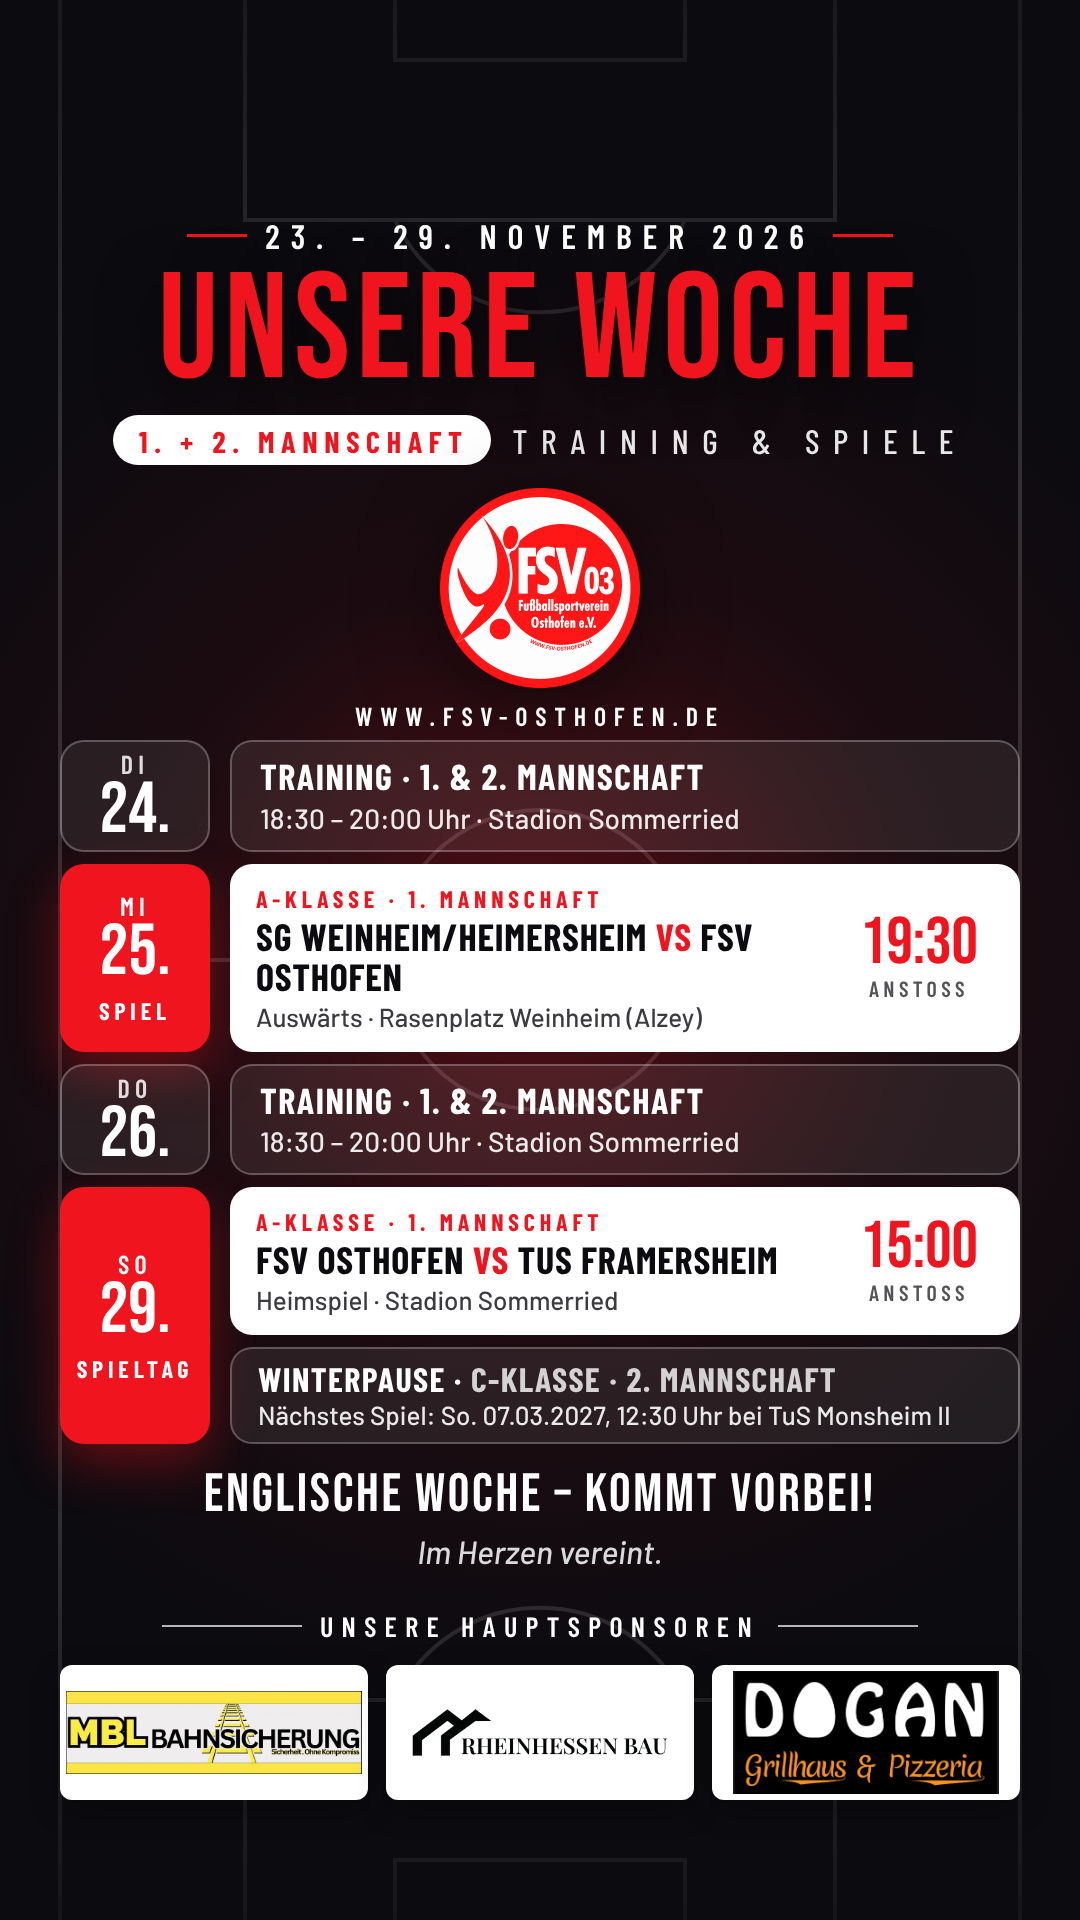
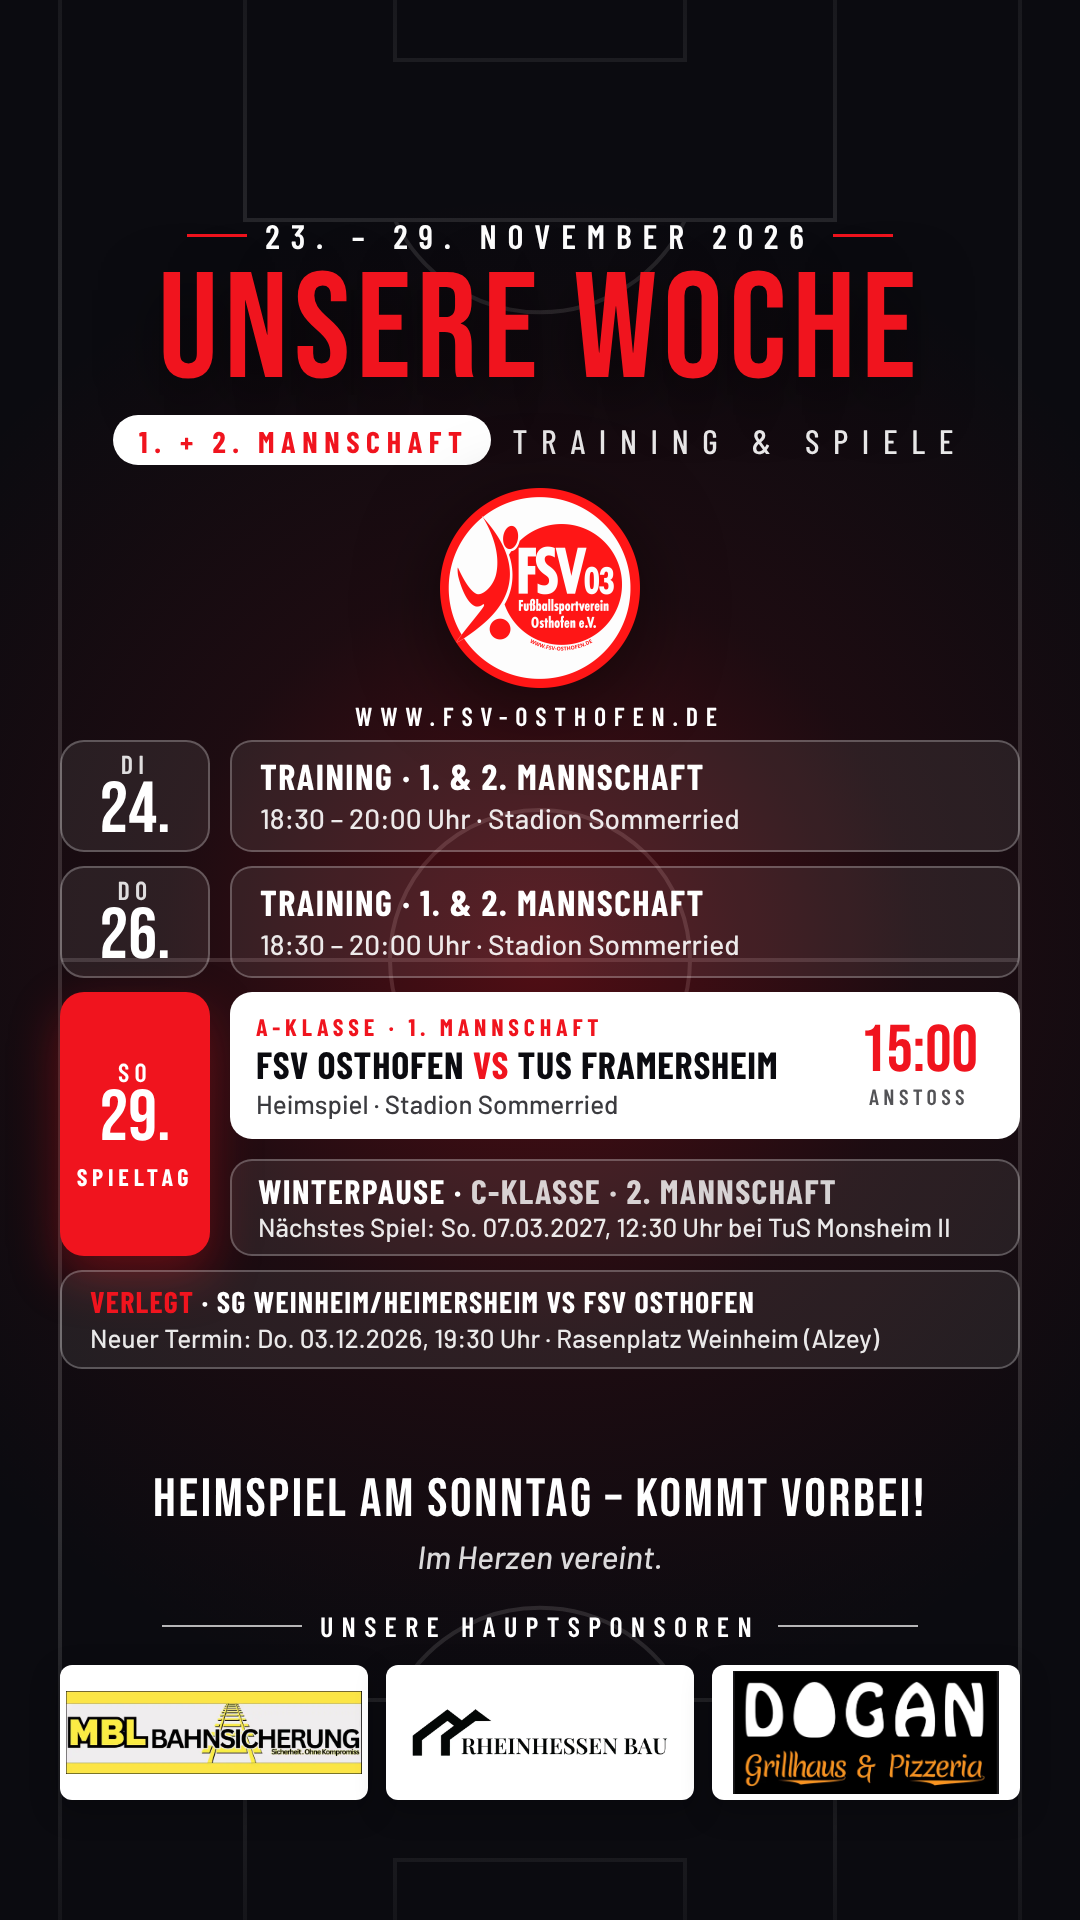
Spiel in Weinheim verlegt auf 03.12.2026 19:30 – Spieltag-Reel + Wochenübersicht aktualisiert
Claude-Session: https://claude.ai/code/session_01X8WeLHWCe29DeJ37NGtFj4

Changed region(s): [[0.0306, 0.4375, 0.9472, 0.8125]]

diff --git a/index.html b/index.html
@@ -34,22 +34,22 @@ h2:first-of-type{border-top:0;padding-top:0;margin-top:0}
 
 <!-- REGELN (Andrej, 02.11.2026): Es wird NUR die aktuelle Woche angezeigt - kein Abschnitt "Vorherige Woche", keine alten Karten. Jeden Montag wird der Abschnitt WOCHE-START..WOCHE-ENDE komplett ersetzt (PNGs in img/ bleiben liegen). Innerhalb der Woche kommen Karten DAZU, nichts wird entfernt. Reihenfolge im Grid: Aufstellungen (Sonntag, ganz oben; 1. vor 2. Mannschaft), dann Jugend-Spielübersicht (Donnerstag), dann Wochenübersicht und Spieltage (Montag). Neue Karten werden also immer OBEN eingefügt, nie ans Ende. -->
 <!-- WOCHE-START: Inhalt bis WOCHE-ENDE wird jeden Montag komplett ersetzt - nur die aktuelle Woche wird angezeigt -->
-<h2>Woche 23.–29.11.2026 · Auswärts Mi. 25.11. · Heimspiel 29.11. · II in der Winterpause</h2>
+<h2>Woche 23.–29.11.2026 · Heimspiel 29.11. · Weinheim verlegt auf Do. 03.12. · II in der Winterpause</h2>
 <div class="grid">
   <div class="card">
     <a href="img/FSV03_Wochenuebersicht_23-29-11-2026.png"><img src="img/FSV03_Wochenuebersicht_23-29-11-2026.png" alt="Wochenübersicht 23.–29. November 2026"></a>
     <div class="body">
       <div class="name">Wochenübersicht 23.–29.11.</div>
-      <div class="meta">Training Di/Do · Mi 25.11. auswärts (19:30 I) · Heimspiel So 29.11. (15:00 I) · 2. Mannschaft Winterpause bis 07.03.2027</div>
+      <div class="meta">Training Di/Do · Heimspiel So 29.11. (15:00 I) · Spiel in Weinheim verlegt auf Do. 03.12. (19:30 I) · 2. Mannschaft Winterpause bis 07.03.2027</div>
       <a class="btn" href="img/FSV03_Wochenuebersicht_23-29-11-2026.png" download>PNG herunterladen</a>
     </div>
   </div>
   <div class="card">
-    <a href="img/FSV03_Spieltag_25-11-2026_1-Mannschaft.png"><img src="img/FSV03_Spieltag_25-11-2026_1-Mannschaft.png" alt="Spieltag 25.11.2026 – 1. Mannschaft bei SG Weinheim/Heimersheim"></a>
+    <a href="img/FSV03_Spieltag_03-12-2026_1-Mannschaft.png"><img src="img/FSV03_Spieltag_03-12-2026_1-Mannschaft.png" alt="Spieltag 03.12.2026 – 1. Mannschaft bei SG Weinheim/Heimersheim (verlegt vom 25.11.)"></a>
     <div class="body">
-      <div class="name">Spieltag Mi. 25.11. · 1. Mannschaft</div>
+      <div class="name">Spieltag Do. 03.12. · 1. Mannschaft (verlegt vom 25.11.)</div>
       <div class="meta">SG Weinheim/Heimersheim – FSV 03 Osthofen · 19:30 · A-Klasse, Auswärtsspiel Rasenplatz Weinheim (Alzey)</div>
-      <a class="btn" href="img/FSV03_Spieltag_25-11-2026_1-Mannschaft.png" download>PNG herunterladen</a>
+      <a class="btn" href="img/FSV03_Spieltag_03-12-2026_1-Mannschaft.png" download>PNG herunterladen</a>
     </div>
   </div>
   <div class="card">
